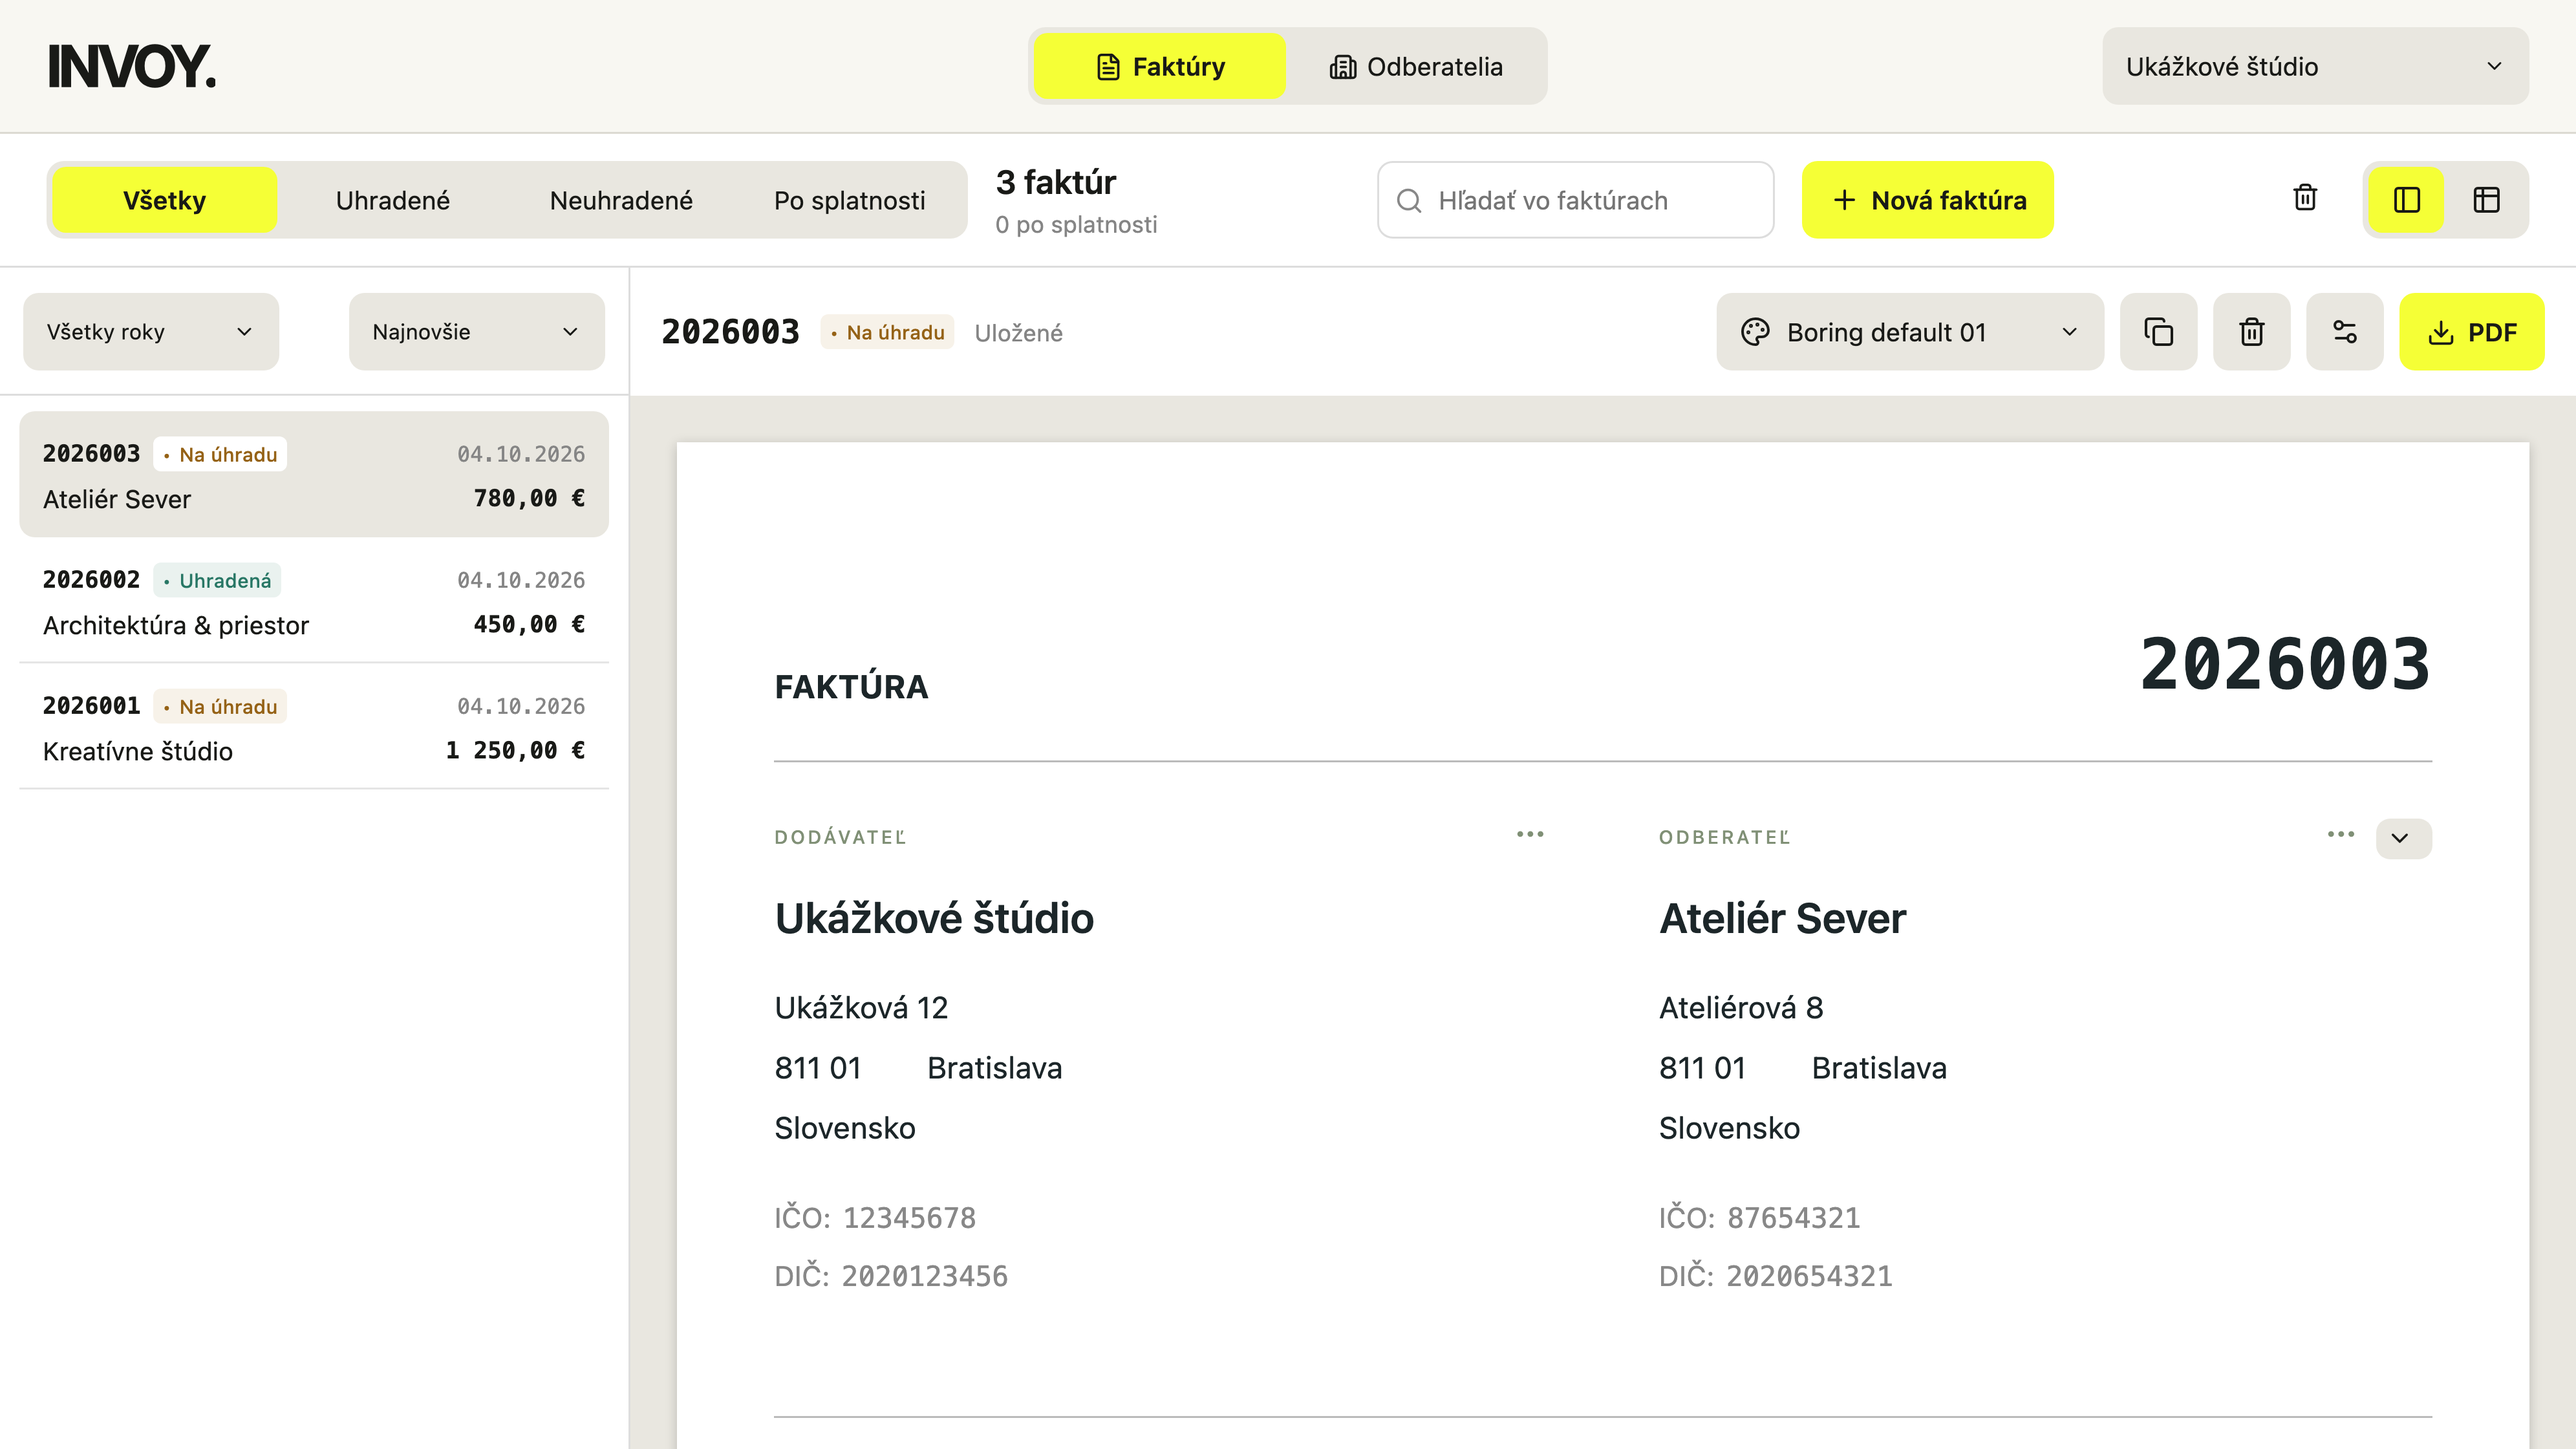
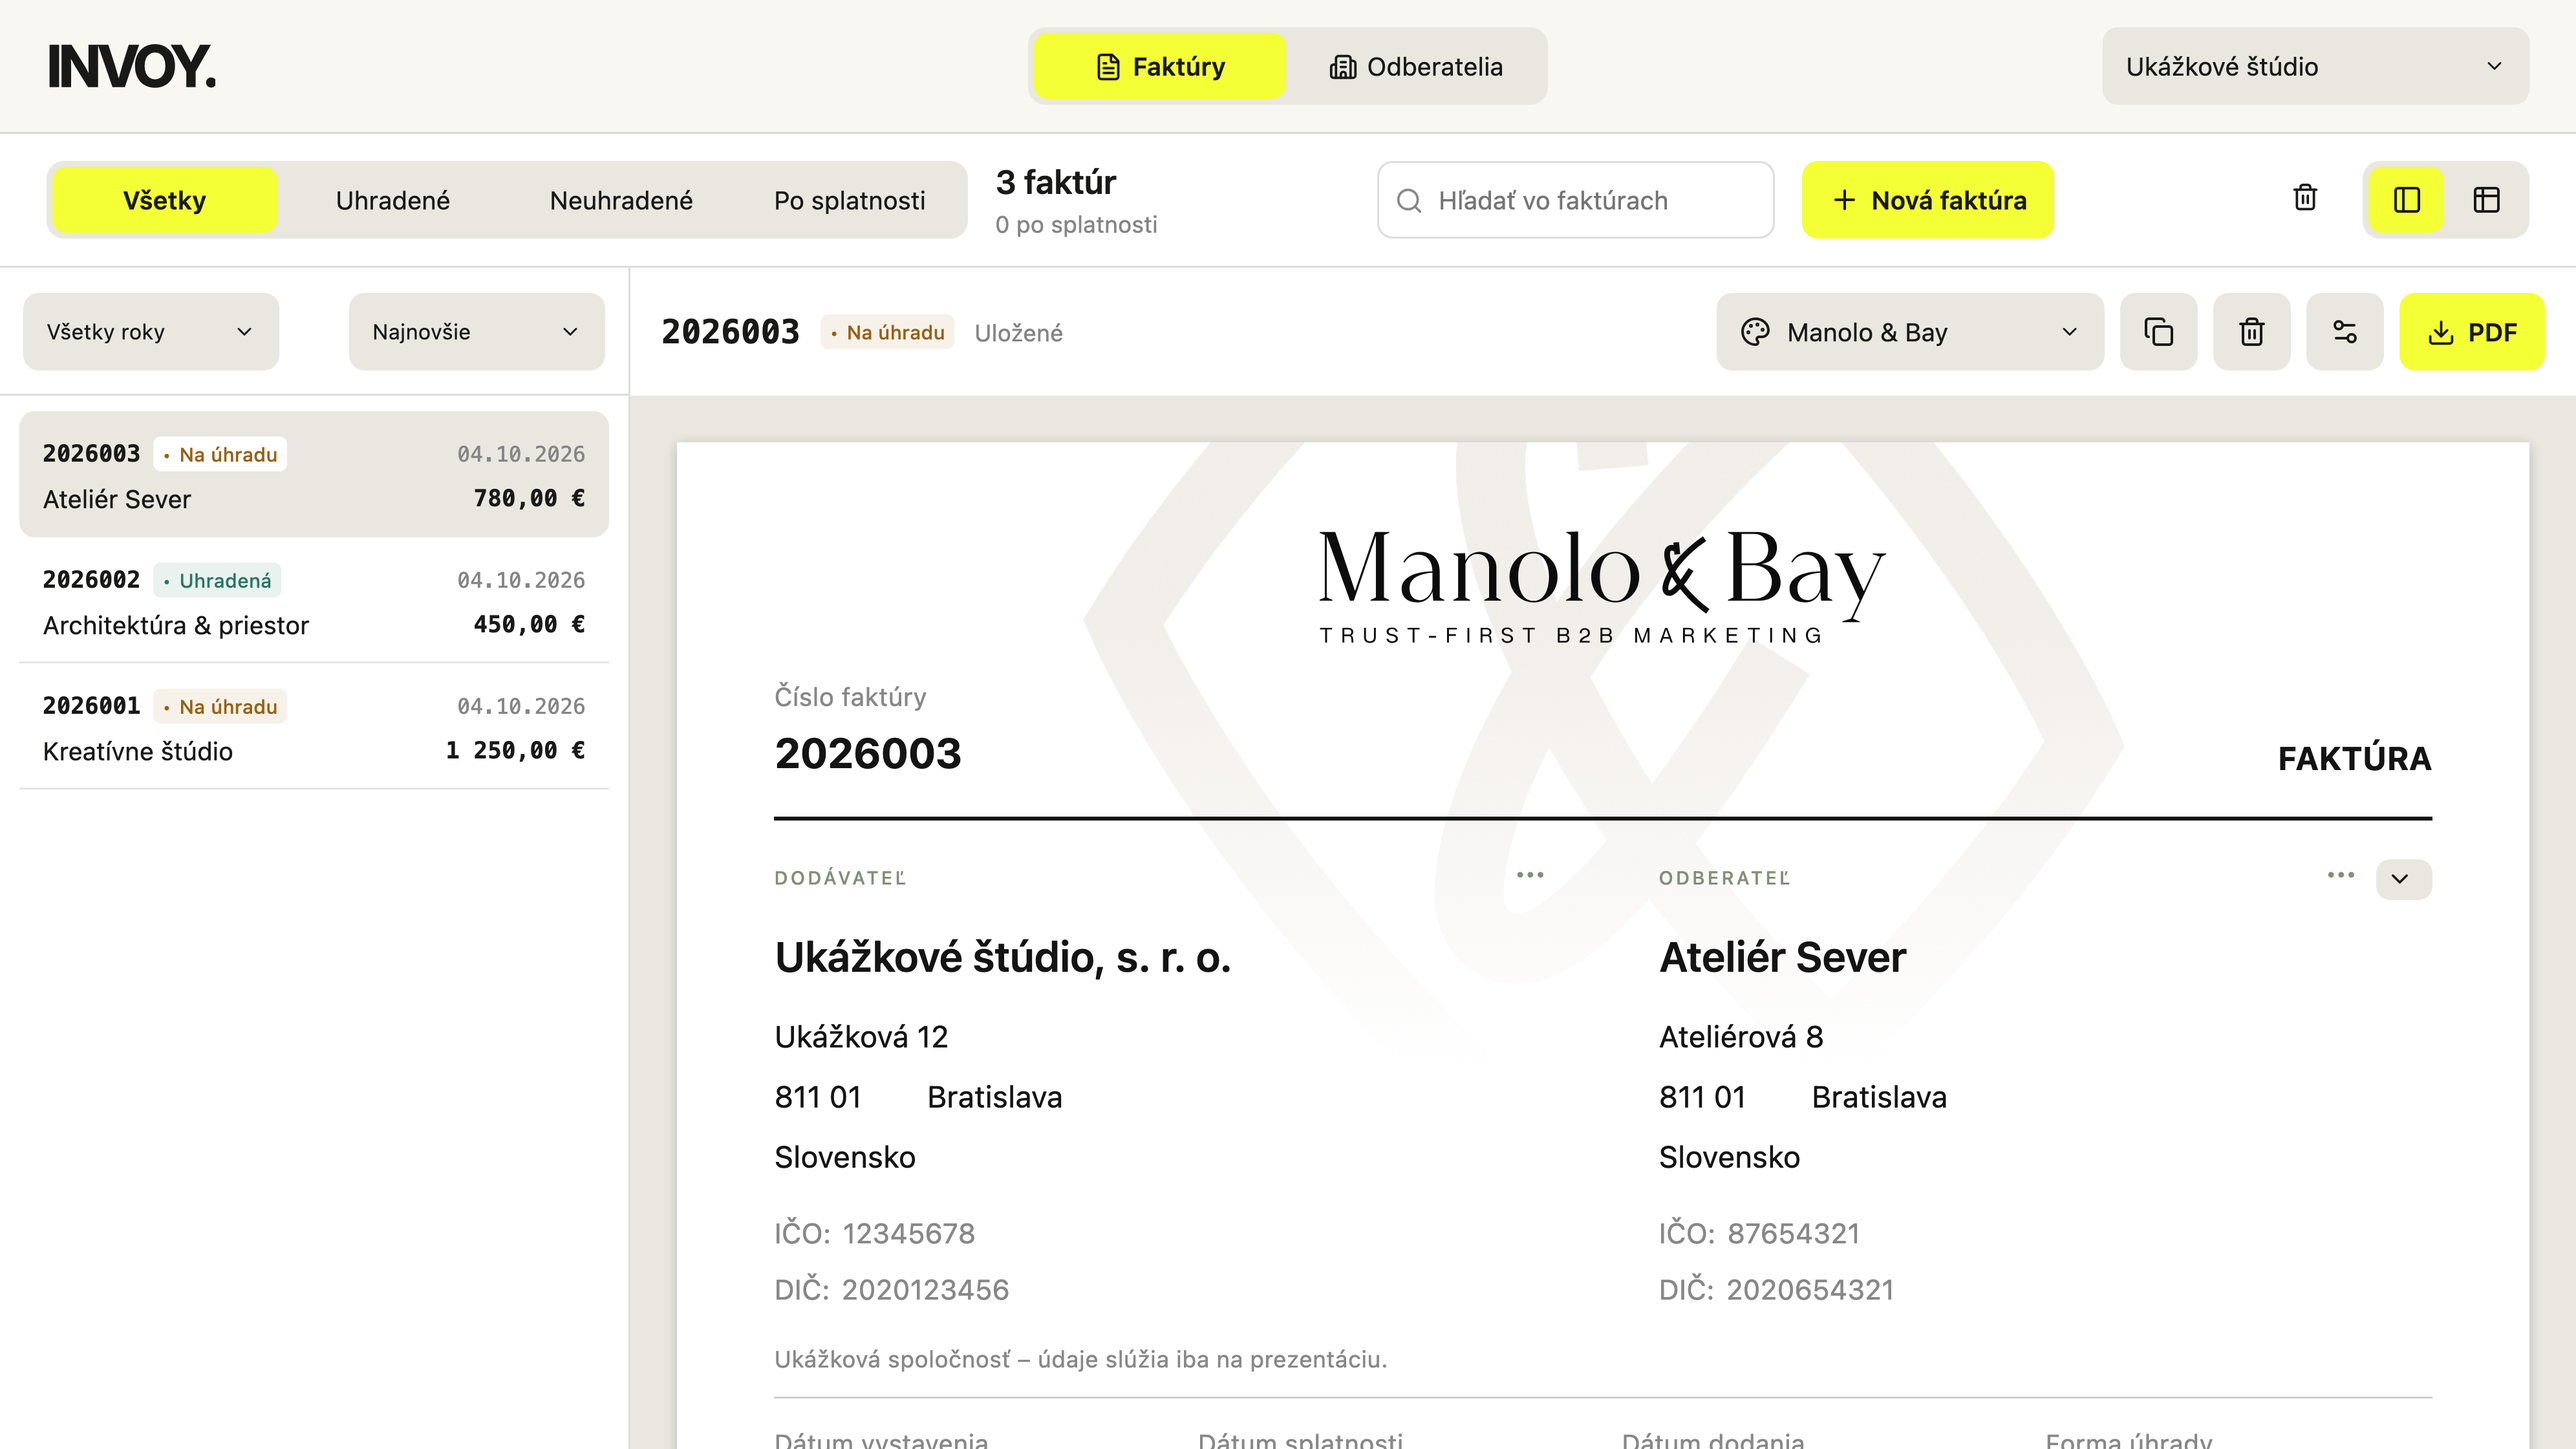
Zobraziť šablónu Manolo Bay v Retina náhľade 16 : 9

diff --git a/web/scripts/preview.ts b/web/scripts/preview.ts
@@ -17,12 +17,18 @@ const origin = `http://127.0.0.1:${address.port}`,
   h = await harness(origin);
 if (productPreview) {
   // Representative regular account, only in this isolated in-memory fixture.
+  const bban = '1100000000001234567890';
+  const checksum = String(98n - (BigInt(bban + '282000') % 97n)).padStart(2, '0');
   await h.db
-    .prepare("UPDATE users SET role='user',name='Ukážkové štúdio' WHERE id=?")
-    .bind(h.identities.owner.id)
+    .prepare(
+      "UPDATE users SET role='user',name='Ukážkové štúdio',profile=json_set(profile,'$.accounts[0].iban',?,'$.accounts[0].holderName',?) WHERE id=?",
+    )
+    .bind(`SK${checksum}${bban}`, 'Ukážkové štúdio, s. r. o.', h.identities.owner.id)
     .run();
 }
-const previewTemplate = process.argv.find((arg) => arg.startsWith('--template='))?.split('=')[1];
+const previewTemplate =
+  process.argv.find((arg) => arg.startsWith('--template='))?.split('=')[1] ??
+  (productPreview ? 'manolo-bay' : undefined);
 if (previewTemplate) {
   const template = await h.db
     .prepare('SELECT id FROM templates WHERE id=?')
@@ -43,6 +49,7 @@ for (const [index, customer] of [
   if (productPreview) {
     invoice.issueDate = '2026-10-04';
     invoice.dueDate = '2026-10-18';
+    invoice.deliveryDate = '2026-10-04';
   }
   if (previewTemplate) invoice.templateID = previewTemplate;
   invoice.customer.name = customer;
@@ -55,6 +62,24 @@ for (const [index, customer] of [
   });
   Object.assign(invoice.supplier, { companyID: '12345678', taxID: '2020123456' });
   invoice.items[0].unitPrice = String([1250, 450, 780][index]);
+  if (productPreview) {
+    invoice.items[0].name = 'Návrh interiéru a výber materiálov';
+    invoice.supplier.name = 'Ukážkové štúdio, s. r. o.';
+    invoice.supplier.email = 'studio@example.com';
+    invoice.supplier.website = 'example.com';
+    invoice.supplier.registration = 'Ukážková spoločnosť – údaje slúžia iba na prezentáciu.';
+    invoice.note = 'Ďakujeme za spoluprácu. Ukážková faktúra s vymyslenými údajmi.';
+    invoice.issuedBy = 'Alex Novák';
+    if (index === 2) {
+      invoice.items[0].unitPrice = '650';
+      invoice.items.push({
+        ...invoice.items[0],
+        id: crypto.randomUUID(),
+        name: 'Zameranie priestoru a konzultácia',
+        unitPrice: '130',
+      });
+    }
+  }
   invoice.paid = index === 1 ? '450' : '0';
   await h.request('owner', `/api/invoices/${invoice.id}`, 'PUT', invoice);
 }

diff --git a/web/scripts/capture-product.ts b/web/scripts/capture-product.ts
@@ -168,6 +168,7 @@ async function main(): Promise<void> {
     const paper = frame?.querySelector<HTMLElement>('.invoice-paper');
     return frame && paper && Math.abs(paper.getBoundingClientRect().width - frame.clientWidth) < 2;
   });
+  await page.locator('.invoice-paper.manoloBay .manolo-logo').waitFor({ state: 'visible' });
   await capture(page, 'invoice');
   await page.getByRole('button', { name: 'Tabuľkový zoznam', exact: true }).click();
   await page.locator('.native-invoice-table tbody tr').nth(2).waitFor({ state: 'visible' });

diff --git a/web/src/ProductPreview.tsx b/web/src/ProductPreview.tsx
@@ -9,7 +9,7 @@ const previews = {
   invoice: {
     src: invoice,
     srcSet: `${invoice} 1328w, ${invoice2x} 2656w, ${invoice3x} 3984w`,
-    alt: 'INVOY: zoznam faktúr vľavo a úprava faktúry priamo na papieri vpravo.',
+    alt: 'INVOY: náhľad faktúry v šablóne Manolo & Bay, s vymyslenými údajmi.',
   },
   overview: {
     src: overview,

diff --git a/README.md b/README.md
@@ -69,7 +69,7 @@ Schválená hlavná farba je **INVOY Yellow `#F5FF36`**. Finálne logo je **INVO
 
 ## Vývoj a overenie
 
-Úvodná stránka webu má dva zachované varianty. **Variant A** (pôvodný biely dizajn) je v `web/src/LandingA.tsx` a `web/src/landing.css`, dostupný na `https://invoy.xyz/?variant=a`. **Variant B** (teplé sivé pozadie, žlté akcenty a vrstvené ukážky) je v `web/src/LandingB.tsx` a `web/src/landing-b.css`, dostupný na `https://invoy.xyz/?variant=b` a je novým predvoleným úvodom. Výber rieši `web/src/Landing.tsx`; predvolený variant možno vrátiť zmenou `DEFAULT_VARIANT`. Parametre variantov zobrazia verejný úvod aj prihlásenému používateľovi, bežná adresa bez parametra naďalej otvorí jeho pracovný priestor. Používa lokálne uložené písmo Inter s licenciou v `web/public/fonts/Inter-LICENSE.txt`. Produktové obrázky v `web/src/assets/product` zachytávajú aktuálne rozhranie iba so syntetickými údajmi z izolovaného lokálneho náhľadu. Oba varianty úvodu používajú spoločný komponent `ProductPreview`: bezstratové WebP v rozlíšeniach 1328 × 747, 2656 × 1494 a 3984 × 2241 px. Prehliadač vyberá rozlíšenie podľa displeja; Vite pridáva do URL obsahový hash, takže aktualizáciu nezablokuje stará cache. Príkaz `npm run capture:product` náhľady znovu vytvorí a `npm run deploy` ich obnoví automaticky pred nasadením. Pri prvom použití na novom počítači spustite vo `web/` príkaz `npx playwright install chromium`. Generátor používa samostatný lokálny server na voľnom porte, ukážkový bežný účet a pevný dátum; nečíta skutočný účet ani lokálne faktúry. Po obnove vizuálne skontrolujte Faktúru aj Prehľad. Pre overenie úvodnej stránky spustite vo `web/` príkaz `npm run preview -- --landing` a otvorte `http://127.0.0.1:8792/`; prihlasovacie tlačidlá sa zobrazia, skutočné Apple prihlásenie zostáva v tomto náhľade vypnuté.
+Úvodná stránka webu má dva zachované varianty. **Variant A** (pôvodný biely dizajn) je v `web/src/LandingA.tsx` a `web/src/landing.css`, dostupný na `https://invoy.xyz/?variant=a`. **Variant B** (teplé sivé pozadie, žlté akcenty a vrstvené ukážky) je v `web/src/LandingB.tsx` a `web/src/landing-b.css`, dostupný na `https://invoy.xyz/?variant=b` a je novým predvoleným úvodom. Výber rieši `web/src/Landing.tsx`; predvolený variant možno vrátiť zmenou `DEFAULT_VARIANT`. Parametre variantov zobrazia verejný úvod aj prihlásenému používateľovi, bežná adresa bez parametra naďalej otvorí jeho pracovný priestor. Používa lokálne uložené písmo Inter s licenciou v `web/public/fonts/Inter-LICENSE.txt`. Produktové obrázky v `web/src/assets/product` zachytávajú aktuálne rozhranie iba so syntetickými údajmi z izolovaného lokálneho náhľadu. Oba varianty úvodu používajú spoločný komponent `ProductPreview`: bezstratové WebP v rozlíšeniach 1328 × 747, 2656 × 1494 a 3984 × 2241 px, vždy v pomere 16 : 9. Náhľad Faktúra používa originálnu šablónu Manolo & Bay s vymyslenými fakturačnými údajmi. Prehliadač vyberá rozlíšenie podľa displeja; Vite pridáva do URL obsahový hash, takže aktualizáciu nezablokuje stará cache. Príkaz `npm run capture:product` náhľady znovu vytvorí a `npm run deploy` ich obnoví automaticky pred nasadením. Pri prvom použití na novom počítači spustite vo `web/` príkaz `npx playwright install chromium`. Generátor používa samostatný lokálny server na voľnom porte, ukážkový bežný účet a pevný dátum; nečíta skutočný účet ani lokálne faktúry. Po obnove vizuálne skontrolujte Faktúru aj Prehľad. Pre overenie úvodnej stránky spustite vo `web/` príkaz `npm run preview -- --landing` a otvorte `http://127.0.0.1:8792/`; prihlasovacie tlačidlá sa zobrazia, skutočné Apple prihlásenie zostáva v tomto náhľade vypnuté.
 
 SwiftUI, AppKit, PDFKit, Core Image, Vision a Foundation. Kompresiu PAY by square
 zabezpečuje systémová macOS knižnica liblzma; jej API hlavičky sú v `Sources/CLZMA`.
